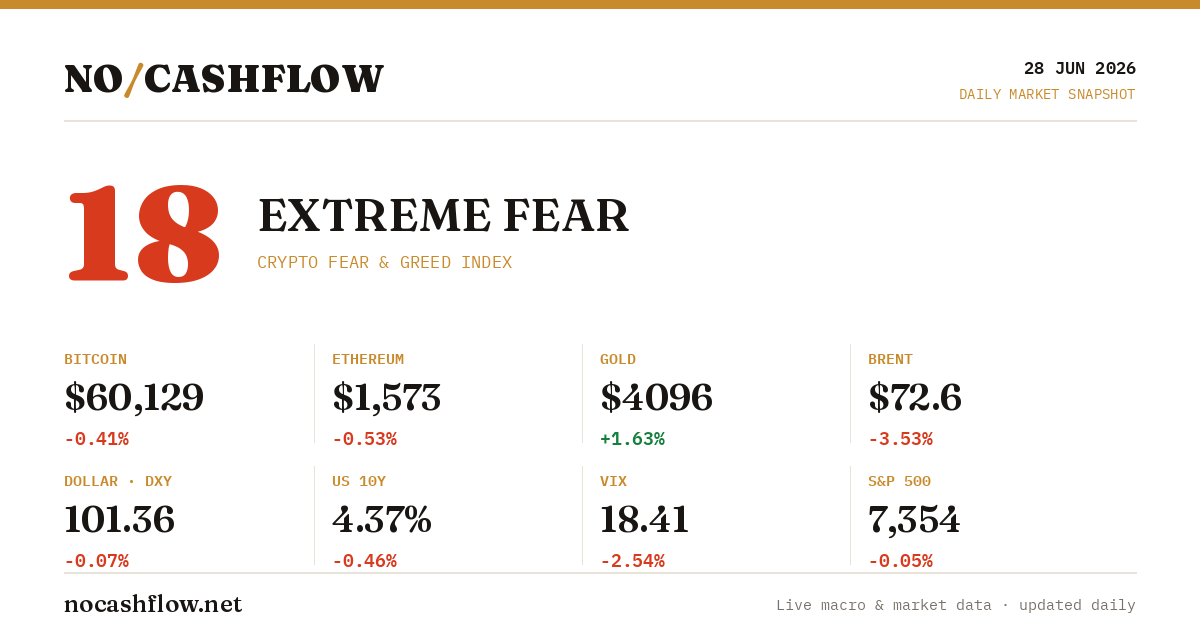
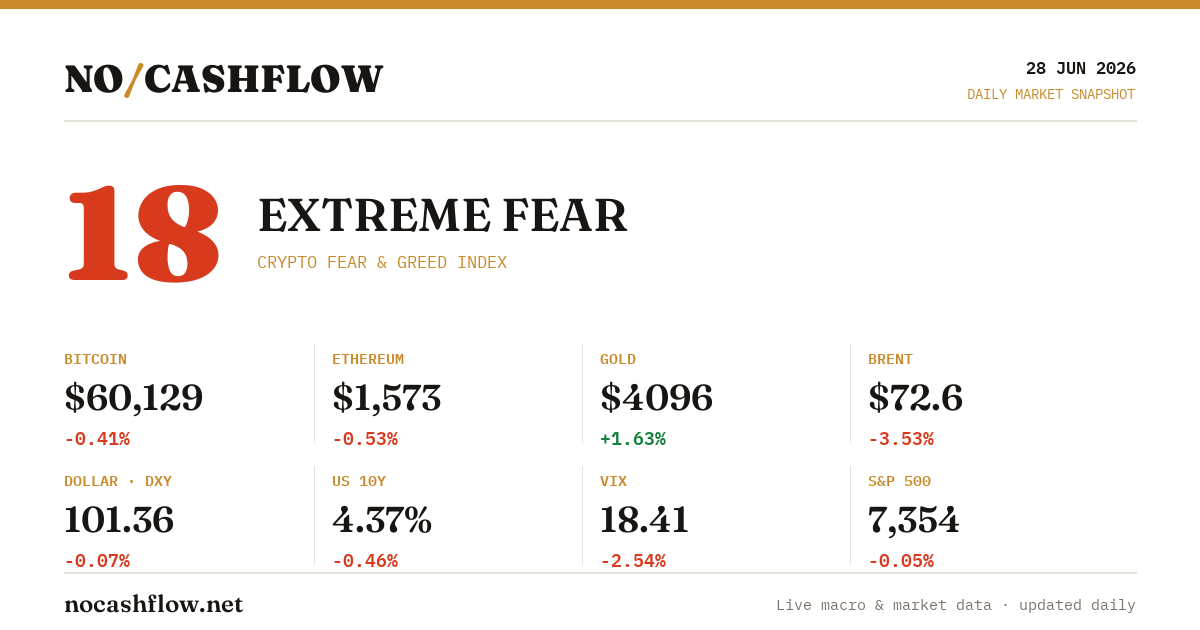
feat(subscribe): explicit bulletin-language picker on every form
Bulletin language was silently taken from the page language, so a visitor on an
English page couldn't choose the Turkish bulletin. Add a visible radio toggle
(Türkçe / English) inside every subscribe form, defaulting to the page language
but freely changeable. The POST lang now comes from this choice, not the page.
Replaces the index-only button toggle; broadsheet styling (Plex, oxide-red).

diff --git a/site.css b/site.css
@@ -491,6 +491,7 @@ body.hovering-link .cursor-dot { background: var(--amber); width: 4px; height: 4
 }
 .newsletter-form {
   display: flex;
+  flex-wrap: wrap;
   max-width: 540px;
   margin: 0 auto;
   gap: 10px;
@@ -540,26 +541,28 @@ body.hovering-link .cursor-dot { background: var(--amber); width: 4px; height: 4
   opacity: 0; pointer-events: none;
 }
 
-/* language toggle (TR/EN) under the main signup */
-.newsletter-lang {
-  display: flex; align-items: center; justify-content: center; gap: 8px;
-  margin-top: 16px;
-}
-.nl-lang-label {
-  font-family: var(--mono); font-size: 10px; letter-spacing: 0.14em;
-  text-transform: uppercase; color: var(--text-mute); margin-right: 4px;
-}
+/* bulletin-language picker — segmented radio toggle inside the form.
+   The user picks the bulletin language explicitly; it is NOT the page language. */
 .nl-lang {
-  font-family: var(--mono); font-size: 11px; letter-spacing: 0.06em;
-  padding: 4px 10px; cursor: pointer;
-  background: transparent; color: var(--text-mute);
-  border: 1px solid var(--border);
+  flex-basis: 100%;          /* drop onto its own row within the flex form */
+  order: 1;                  /* below the email + submit row */
+  border: 0; padding: 0; margin: 14px auto 0;
+  display: flex; justify-content: center; gap: 8px;
+}
+.nl-lang-opt {
+  font-family: var(--mono); font-size: 11px; letter-spacing: 0.08em;
+  text-transform: uppercase;
+  padding: 7px 16px; cursor: pointer; user-select: none;
+  color: var(--text-mute);
+  border: 1px solid var(--border); border-radius: 999px;
   transition: color .15s, border-color .15s, background .15s;
 }
-.nl-lang:hover { color: var(--text); border-color: var(--text-mute); }
-.nl-lang.is-active {
-  color: #fff; background: var(--text); border-color: var(--text);
+.nl-lang-opt input { position: absolute; opacity: 0; width: 0; height: 0; pointer-events: none; }
+.nl-lang-opt:hover { color: var(--text); border-color: var(--text-mute); }
+.nl-lang-opt:has(input:checked) {
+  color: #fff; background: var(--red); border-color: var(--red);
 }
+.nl-lang-opt:has(input:focus-visible) { outline: 2px solid var(--red); outline-offset: 2px; }
 
 /* subscribe result message ("check your inbox" / errors) */
 .newsletter-msg {

diff --git a/app.js b/app.js
@@ -283,19 +283,6 @@
       err: 'Failed — try again',
     };
 
-    // Language toggle (only on the main signup): flips form.dataset.lang.
-    // Uses `data-nl-lang` — distinct from the site-wide `data-set-lang` nav switch.
-    $$('[data-nl-lang]').forEach((btn) => {
-      btn.addEventListener('click', () => {
-        const scope = btn.closest('section') || document;
-        const form = scope.querySelector('form[data-newsletter]');
-        if (!form) return;
-        form.dataset.lang = btn.getAttribute('data-nl-lang');
-        scope.querySelectorAll('[data-nl-lang]').forEach((b) =>
-          b.classList.toggle('is-active', b === btn));
-      });
-    });
-
     $$('form[data-newsletter]').forEach((form) => {
       form.addEventListener('submit', async (e) => {
         e.preventDefault();
@@ -303,7 +290,11 @@
         const input = form.querySelector('input[type="email"]');
         if (!btn || !input || btn.disabled) return;
         const email = input.value.trim();
-        const lang = form.dataset.lang === 'tr' ? 'tr'
+        // Bulletin language is the user's explicit choice (radio), NOT the page
+        // language. Fall back to the form's data-lang / page lang if absent.
+        const picked = form.querySelector('input[name="lang"]:checked');
+        const lang = picked ? (picked.value === 'tr' ? 'tr' : 'en')
+                   : form.dataset.lang === 'tr' ? 'tr'
                    : form.dataset.lang === 'en' ? 'en'
                    : (pageTR ? 'tr' : 'en');
         const hp = (form.querySelector('.nl-hp, input[name="hp"]') || {}).value || '';

diff --git a/content/en/index.html b/content/en/index.html
@@ -139,15 +139,14 @@
     <p class="newsletter-dek">A short brief every morning, plus a long-form deep dive every Sunday — macro, crypto and commodities. No noise, no paywall.</p>
     <form class="newsletter-form" data-newsletter data-lang="en">
       <input class="newsletter-input" type="email" name="email" placeholder="[email redacted]" autocomplete="email" required/>
+      <fieldset class="nl-lang" aria-label="Bulletin language / Bülten dili">
+        <label class="nl-lang-opt"><input type="radio" name="lang" value="en" checked/><span>English</span></label>
+        <label class="nl-lang-opt"><input type="radio" name="lang" value="tr"/><span>Türkçe</span></label>
+      </fieldset>
       <button class="newsletter-submit" type="submit">Subscribe</button>
       <!-- honeypot: off-screen, hidden from humans; bots fill it and get silently dropped -->
       <input class="nl-hp" type="text" name="hp" tabindex="-1" autocomplete="off" aria-hidden="true"/>
     </form>
-    <div class="newsletter-lang" role="group" aria-label="Bulletin language">
-      <span class="nl-lang-label">Language</span>
-      <button type="button" class="nl-lang is-active" data-nl-lang="en">EN</button>
-      <button type="button" class="nl-lang" data-nl-lang="tr">TR</button>
-    </div>
     <div class="newsletter-msg" data-newsletter-msg aria-live="polite"></div>
     <div class="newsletter-note">Free forever · No spam · Unsubscribe anytime</div>
     <p class="newsletter-privacy">We store only your email address, to send the bulletin — nothing else. Unsubscribe anytime. <a href="/privacy.html">Privacy</a></p>

diff --git a/content/tr/index.html b/content/tr/index.html
@@ -139,15 +139,14 @@
     <p class="newsletter-dek">Her sabah kısa bir özet, her pazar uzun bir derin analiz — makro, kripto ve emtia. Gürültü yok, paywall yok.</p>
     <form class="newsletter-form" data-newsletter data-lang="tr">
       <input class="newsletter-input" type="email" name="email" placeholder="[email redacted]" autocomplete="email" required/>
+      <fieldset class="nl-lang" aria-label="Bulletin language / Bülten dili">
+        <label class="nl-lang-opt"><input type="radio" name="lang" value="en"/><span>English</span></label>
+        <label class="nl-lang-opt"><input type="radio" name="lang" value="tr" checked/><span>Türkçe</span></label>
+      </fieldset>
       <button class="newsletter-submit" type="submit">Abone Ol</button>
       <!-- honeypot: ekran dışı, insanlardan gizli; botlar doldurur ve sessizce elenir -->
       <input class="nl-hp" type="text" name="hp" tabindex="-1" autocomplete="off" aria-hidden="true"/>
     </form>
-    <div class="newsletter-lang" role="group" aria-label="Bülten dili">
-      <span class="nl-lang-label">Dil</span>
-      <button type="button" class="nl-lang" data-nl-lang="en">EN</button>
-      <button type="button" class="nl-lang is-active" data-nl-lang="tr">TR</button>
-    </div>
     <div class="newsletter-msg" data-newsletter-msg aria-live="polite"></div>
     <div class="newsletter-note">Sonsuza dek ücretsiz · Spam yok · İstediğinde çık</div>
     <p class="newsletter-privacy">Yalnızca e-posta adresini saklarız, sadece bülteni göndermek için — başka hiçbir şey. İstediğin an çıkabilirsin. <a href="/tr/privacy.html">Gizlilik</a></p>

diff --git a/index.html b/index.html
@@ -248,15 +248,14 @@
     <p class="newsletter-dek">A short brief every morning, plus a long-form deep dive every Sunday — macro, crypto and commodities. No noise, no paywall.</p>
     <form class="newsletter-form" data-newsletter data-lang="en">
       <input class="newsletter-input" type="email" name="email" placeholder="[email redacted]" autocomplete="email" required/>
+      <fieldset class="nl-lang" aria-label="Bulletin language / Bülten dili">
+        <label class="nl-lang-opt"><input type="radio" name="lang" value="en" checked/><span>English</span></label>
+        <label class="nl-lang-opt"><input type="radio" name="lang" value="tr"/><span>Türkçe</span></label>
+      </fieldset>
       <button class="newsletter-submit" type="submit">Subscribe</button>
       <!-- honeypot: off-screen, hidden from humans; bots fill it and get silently dropped -->
       <input class="nl-hp" type="text" name="hp" tabindex="-1" autocomplete="off" aria-hidden="true"/>
     </form>
-    <div class="newsletter-lang" role="group" aria-label="Bulletin language">
-      <span class="nl-lang-label">Language</span>
-      <button type="button" class="nl-lang is-active" data-nl-lang="en">EN</button>
-      <button type="button" class="nl-lang" data-nl-lang="tr">TR</button>
-    </div>
     <div class="newsletter-msg" data-newsletter-msg aria-live="polite"></div>
     <div class="newsletter-note">Free forever · No spam · Unsubscribe anytime</div>
     <p class="newsletter-privacy">We store only your email address, to send the bulletin — nothing else. Unsubscribe anytime. <a href="/privacy.html">Privacy</a></p>

diff --git a/tr/index.html b/tr/index.html
@@ -238,15 +238,14 @@
     <p class="newsletter-dek">Her sabah kısa bir özet, her pazar uzun bir derin analiz — makro, kripto ve emtia. Gürültü yok, paywall yok.</p>
     <form class="newsletter-form" data-newsletter data-lang="tr">
       <input class="newsletter-input" type="email" name="email" placeholder="[email redacted]" autocomplete="email" required/>
+      <fieldset class="nl-lang" aria-label="Bulletin language / Bülten dili">
+        <label class="nl-lang-opt"><input type="radio" name="lang" value="en"/><span>English</span></label>
+        <label class="nl-lang-opt"><input type="radio" name="lang" value="tr" checked/><span>Türkçe</span></label>
+      </fieldset>
       <button class="newsletter-submit" type="submit">Abone Ol</button>
       <!-- honeypot: ekran dışı, insanlardan gizli; botlar doldurur ve sessizce elenir -->
       <input class="nl-hp" type="text" name="hp" tabindex="-1" autocomplete="off" aria-hidden="true"/>
     </form>
-    <div class="newsletter-lang" role="group" aria-label="Bülten dili">
-      <span class="nl-lang-label">Dil</span>
-      <button type="button" class="nl-lang" data-nl-lang="en">EN</button>
-      <button type="button" class="nl-lang is-active" data-nl-lang="tr">TR</button>
-    </div>
     <div class="newsletter-msg" data-newsletter-msg aria-live="polite"></div>
     <div class="newsletter-note">Sonsuza dek ücretsiz · Spam yok · İstediğinde çık</div>
     <p class="newsletter-privacy">Yalnızca e-posta adresini saklarız, sadece bülteni göndermek için — başka hiçbir şey. İstediğin an çıkabilirsin. <a href="/tr/privacy.html">Gizlilik</a></p>

diff --git a/bulletin_page.html b/bulletin_page.html
@@ -93,6 +93,10 @@
   <p class="page-dek">A 60-second macro snapshot, the crypto signal board, Fed watch and the day's economic calendar — landed in your inbox before the market opens.</p>
   <form class="newsletter-form" data-newsletter data-lang="en" style="margin:28px 0 0;max-width:520px">
     <input class="newsletter-input" type="email" name="email" placeholder="[email redacted]" autocomplete="email" required/>
+    <fieldset class="nl-lang" aria-label="Bulletin language / Bülten dili">
+      <label class="nl-lang-opt"><input type="radio" name="lang" value="en" checked/><span>English</span></label>
+      <label class="nl-lang-opt"><input type="radio" name="lang" value="tr"/><span>Türkçe</span></label>
+    </fieldset>
     <input class="nl-hp" type="text" name="hp" tabindex="-1" autocomplete="off" aria-hidden="true"/>
     <button class="newsletter-submit" type="submit">Subscribe Free</button>
   </form>
@@ -185,6 +189,10 @@
     <p class="newsletter-dek">Open the day with a clear macro picture — a short brief every morning, a long-form deep dive every Sunday. No credit card, no paywall, ever.</p>
     <form class="newsletter-form" data-newsletter data-lang="en">
       <input class="newsletter-input" type="email" name="email" placeholder="[email redacted]" autocomplete="email" required/>
+      <fieldset class="nl-lang" aria-label="Bulletin language / Bülten dili">
+        <label class="nl-lang-opt"><input type="radio" name="lang" value="en" checked/><span>English</span></label>
+        <label class="nl-lang-opt"><input type="radio" name="lang" value="tr"/><span>Türkçe</span></label>
+      </fieldset>
       <input class="nl-hp" type="text" name="hp" tabindex="-1" autocomplete="off" aria-hidden="true"/>
       <button class="newsletter-submit" type="submit">Subscribe Free</button>
     </form>

diff --git a/content/en/bulletin_page.html b/content/en/bulletin_page.html
@@ -5,6 +5,10 @@
   <p class="page-dek">A 60-second macro snapshot, the crypto signal board, Fed watch and the day's economic calendar — landed in your inbox before the market opens.</p>
   <form class="newsletter-form" data-newsletter data-lang="en" style="margin:28px 0 0;max-width:520px">
     <input class="newsletter-input" type="email" name="email" placeholder="[email redacted]" autocomplete="email" required/>
+    <fieldset class="nl-lang" aria-label="Bulletin language / Bülten dili">
+      <label class="nl-lang-opt"><input type="radio" name="lang" value="en" checked/><span>English</span></label>
+      <label class="nl-lang-opt"><input type="radio" name="lang" value="tr"/><span>Türkçe</span></label>
+    </fieldset>
     <input class="nl-hp" type="text" name="hp" tabindex="-1" autocomplete="off" aria-hidden="true"/>
     <button class="newsletter-submit" type="submit">Subscribe Free</button>
   </form>
@@ -95,6 +99,10 @@
     <p class="newsletter-dek">Open the day with a clear macro picture — a short brief every morning, a long-form deep dive every Sunday. No credit card, no paywall, ever.</p>
     <form class="newsletter-form" data-newsletter data-lang="en">
       <input class="newsletter-input" type="email" name="email" placeholder="[email redacted]" autocomplete="email" required/>
+      <fieldset class="nl-lang" aria-label="Bulletin language / Bülten dili">
+        <label class="nl-lang-opt"><input type="radio" name="lang" value="en" checked/><span>English</span></label>
+        <label class="nl-lang-opt"><input type="radio" name="lang" value="tr"/><span>Türkçe</span></label>
+      </fieldset>
       <input class="nl-hp" type="text" name="hp" tabindex="-1" autocomplete="off" aria-hidden="true"/>
       <button class="newsletter-submit" type="submit">Subscribe Free</button>
     </form>

diff --git a/content/tr/bulletin_page.html b/content/tr/bulletin_page.html
@@ -5,6 +5,10 @@
   <p class="page-dek">60 saniyelik makro özet, kripto sinyal panosu, Fed takibi ve günün ekonomik takvimi — piyasa açılmadan gelen kutuna düşer.</p>
   <form class="newsletter-form" data-newsletter data-lang="tr" style="margin:28px 0 0;max-width:520px">
     <input class="newsletter-input" type="email" name="email" placeholder="[email redacted]" autocomplete="email" required/>
+    <fieldset class="nl-lang" aria-label="Bulletin language / Bülten dili">
+      <label class="nl-lang-opt"><input type="radio" name="lang" value="en"/><span>English</span></label>
+      <label class="nl-lang-opt"><input type="radio" name="lang" value="tr" checked/><span>Türkçe</span></label>
+    </fieldset>
     <input class="nl-hp" type="text" name="hp" tabindex="-1" autocomplete="off" aria-hidden="true"/>
     <button class="newsletter-submit" type="submit">Ücretsiz Abone Ol</button>
   </form>
@@ -95,6 +99,10 @@
     <p class="newsletter-dek">Güne net bir makro resimle başla — her sabah kısa özet, her pazar uzun derin analiz. Kredi kartı yok, paywall yok, asla.</p>
     <form class="newsletter-form" data-newsletter data-lang="tr">
       <input class="newsletter-input" type="email" name="email" placeholder="[email redacted]" autocomplete="email" required/>
+      <fieldset class="nl-lang" aria-label="Bulletin language / Bülten dili">
+        <label class="nl-lang-opt"><input type="radio" name="lang" value="en"/><span>English</span></label>
+        <label class="nl-lang-opt"><input type="radio" name="lang" value="tr" checked/><span>Türkçe</span></label>
+      </fieldset>
       <input class="nl-hp" type="text" name="hp" tabindex="-1" autocomplete="off" aria-hidden="true"/>
       <button class="newsletter-submit" type="submit">Ücretsiz Abone Ol</button>
     </form>

diff --git a/tr/bulletin_page.html b/tr/bulletin_page.html
@@ -94,6 +94,10 @@
   <p class="page-dek">60 saniyelik makro özet, kripto sinyal panosu, Fed takibi ve günün ekonomik takvimi — piyasa açılmadan gelen kutuna düşer.</p>
   <form class="newsletter-form" data-newsletter data-lang="tr" style="margin:28px 0 0;max-width:520px">
     <input class="newsletter-input" type="email" name="email" placeholder="[email redacted]" autocomplete="email" required/>
+    <fieldset class="nl-lang" aria-label="Bulletin language / Bülten dili">
+      <label class="nl-lang-opt"><input type="radio" name="lang" value="en"/><span>English</span></label>
+      <label class="nl-lang-opt"><input type="radio" name="lang" value="tr" checked/><span>Türkçe</span></label>
+    </fieldset>
     <input class="nl-hp" type="text" name="hp" tabindex="-1" autocomplete="off" aria-hidden="true"/>
     <button class="newsletter-submit" type="submit">Ücretsiz Abone Ol</button>
   </form>
@@ -186,6 +190,10 @@
     <p class="newsletter-dek">Güne net bir makro resimle başla — her sabah kısa özet, her pazar uzun derin analiz. Kredi kartı yok, paywall yok, asla.</p>
     <form class="newsletter-form" data-newsletter data-lang="tr">
       <input class="newsletter-input" type="email" name="email" placeholder="[email redacted]" autocomplete="email" required/>
+      <fieldset class="nl-lang" aria-label="Bulletin language / Bülten dili">
+        <label class="nl-lang-opt"><input type="radio" name="lang" value="en"/><span>English</span></label>
+        <label class="nl-lang-opt"><input type="radio" name="lang" value="tr" checked/><span>Türkçe</span></label>
+      </fieldset>
       <input class="nl-hp" type="text" name="hp" tabindex="-1" autocomplete="off" aria-hidden="true"/>
       <button class="newsletter-submit" type="submit">Ücretsiz Abone Ol</button>
     </form>

diff --git a/content/en/sozluk.html b/content/en/sozluk.html
@@ -39,6 +39,10 @@
     <p class="newsletter-dek">Hear about it as the glossary grows and every time a new analysis drops.</p>
     <form class="newsletter-form" data-newsletter data-lang="en">
       <input class="newsletter-input" type="email" name="email" placeholder="[email redacted]" autocomplete="email" required/>
+      <fieldset class="nl-lang" aria-label="Bulletin language / Bülten dili">
+        <label class="nl-lang-opt"><input type="radio" name="lang" value="en" checked/><span>English</span></label>
+        <label class="nl-lang-opt"><input type="radio" name="lang" value="tr"/><span>Türkçe</span></label>
+      </fieldset>
       <input class="nl-hp" type="text" name="hp" tabindex="-1" autocomplete="off" aria-hidden="true"/>
       <button class="newsletter-submit" type="submit">Subscribe</button>
     </form>

diff --git a/content/en/yazilar.html b/content/en/yazilar.html
@@ -52,6 +52,10 @@
         </div>
         <form class="newsletter-form" data-newsletter data-lang="en" style="max-width:360px;margin:0">
           <input class="newsletter-input" type="email" name="email" placeholder="[email redacted]" autocomplete="email" required/>
+          <fieldset class="nl-lang" aria-label="Bulletin language / Bülten dili">
+            <label class="nl-lang-opt"><input type="radio" name="lang" value="en" checked/><span>English</span></label>
+            <label class="nl-lang-opt"><input type="radio" name="lang" value="tr"/><span>Türkçe</span></label>
+          </fieldset>
           <input class="nl-hp" type="text" name="hp" tabindex="-1" autocomplete="off" aria-hidden="true"/>
           <button class="newsletter-submit" type="submit">Subscribe</button>
         </form>